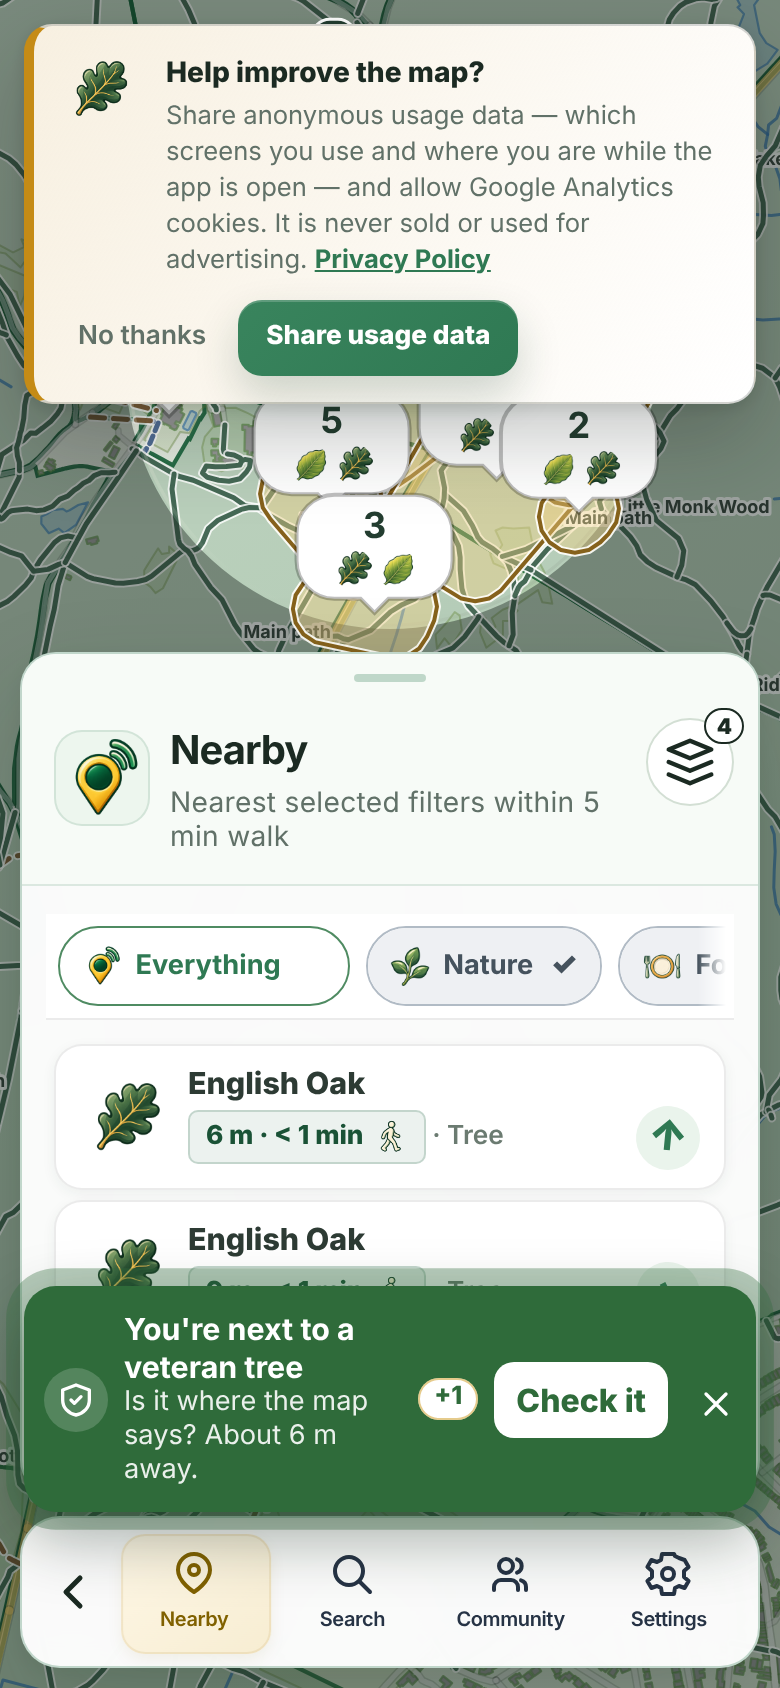
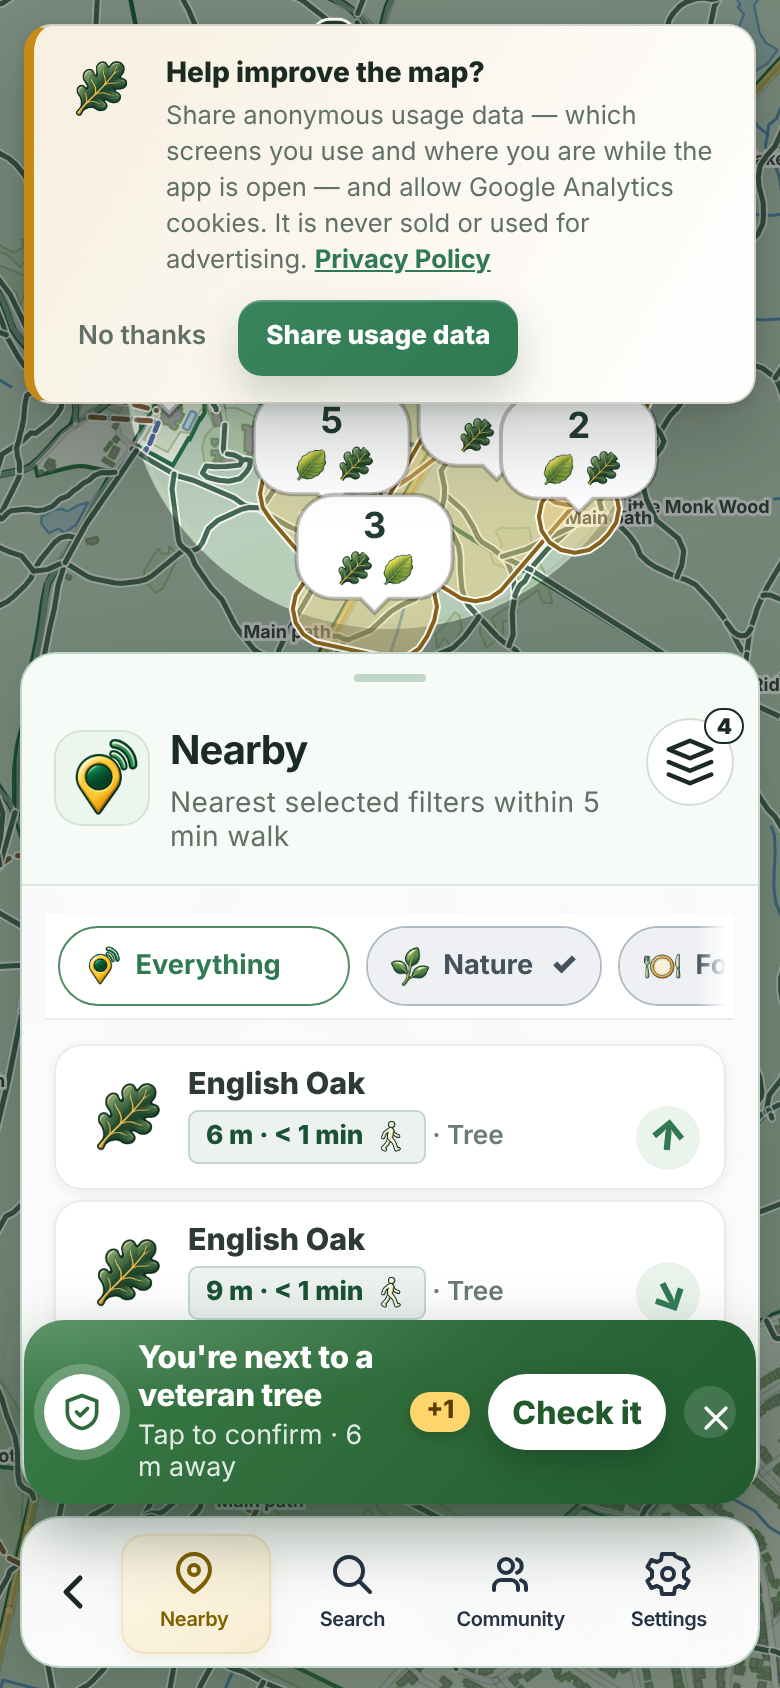
Make the tree nudge a more inviting card
Warm gradient band, glowing badge, pill call to action and a shorter
subtitle so the prompt reads as an invitation to check the tree.

Claude-Session: https://claude.ai/code/session_01AJovwzNat6yvRnbUhUsFTU

Changed region(s): [[0.0, 0.7393, 1.0, 0.9242], [0.8923, 0.8318, 0.9231, 0.8626]]

diff --git a/css/inspector.css b/css/inspector.css
@@ -2189,21 +2189,23 @@ dd {
 }
 
 /* Nudge: a dismissible prompt when you are next to an unchecked tree, on every screen, and a one-off pulse on the check card.
-   Solid green with white text so it reads at a glance over the map, the lists and the inspector sheet alike. */
-.community-nudge { position: fixed; z-index: 40; left: 12px; right: 12px; bottom: calc(var(--safe-bottom) + 88px); display: flex; align-items: center; gap: 12px; max-width: 460px; margin: 0 auto; padding: 14px 14px 14px 12px; border: 0; border-radius: 16px; background: #2f6b3a; color: #fff; box-shadow: 0 12px 32px rgba(20, 40, 25, .38), 0 0 0 3px rgba(255, 255, 255, .85); animation: community-nudge-in .3s ease-out, community-nudge-glow 2.4s ease-in-out 3; }
-.community-nudge-icon { display: inline-flex; width: 40px; height: 40px; padding: 8px; border-radius: 50%; background: rgba(255, 255, 255, .18); color: #fff; flex: none; }
+   A warm gradient band with a glowing badge and a bright call to action, so it reads as an invitation rather than a notice. */
+.community-nudge { position: fixed; z-index: 40; left: 12px; right: 12px; bottom: calc(var(--safe-bottom) + 92px); display: flex; align-items: center; gap: 12px; max-width: 460px; margin: 0 auto; padding: 12px 12px 12px 12px; border: 0; border-radius: 20px; background: linear-gradient(135deg, #3a7d47 0%, #225a2e 100%); color: #fff; box-shadow: 0 14px 34px rgba(16, 42, 22, .42), inset 0 1px 0 rgba(255, 255, 255, .22); animation: community-nudge-in .35s cubic-bezier(.2, .8, .2, 1), community-nudge-glow 2.6s ease-in-out 3; }
+.community-nudge::before { content: ""; position: absolute; inset: 0; border-radius: inherit; background: radial-gradient(120% 90% at 0% 0%, rgba(255, 255, 255, .18), transparent 55%); pointer-events: none; }
+.community-nudge-icon { position: relative; display: inline-flex; width: 46px; height: 46px; padding: 10px; border-radius: 50%; background: #fff; color: #2f6b3a; box-shadow: 0 0 0 5px rgba(255, 255, 255, .22); flex: none; }
 .community-nudge-icon svg { width: 100%; height: 100%; }
-.community-nudge-text { display: flex; flex: 1; flex-direction: column; min-width: 0; font-size: .95rem; line-height: 1.25; }
-.community-nudge-text strong { font-size: 1.02rem; }
-.community-nudge-text span { color: rgba(255, 255, 255, .9); font-size: .85rem; }
-.community-nudge > .community-points-chip { flex: none; margin: 0; background: #fff; color: #2f6b3a; font-weight: 800; }
-.community-nudge-go { flex: none; padding: 10px 14px; border: 0; border-radius: 10px; background: #fff; color: #2f6b3a; font: inherit; font-weight: 800; cursor: pointer; }
-.community-nudge-close { display: inline-flex; flex: none; width: 32px; height: 32px; padding: 6px; border: 0; border-radius: 50%; background: none; color: #fff; cursor: pointer; }
-.community-nudge-close:hover, .community-nudge-close:focus-visible { background: rgba(255, 255, 255, .16); }
-@media (max-width: 420px) { .community-nudge { gap: 8px; padding: 12px 8px 12px 10px; } .community-nudge-icon { width: 32px; height: 32px; padding: 6px; } .community-nudge-text { font-size: .9rem; } .community-nudge-text strong { font-size: .95rem; } .community-nudge-go { padding: 9px 11px; } .community-nudge-close { width: 28px; height: 28px; } }
+.community-nudge-text { position: relative; display: flex; flex: 1; flex-direction: column; gap: 2px; min-width: 0; font-size: .95rem; line-height: 1.2; }
+.community-nudge-text strong { font-size: 1.05rem; font-weight: 800; letter-spacing: -.01em; }
+.community-nudge-text span { color: rgba(255, 255, 255, .86); font-size: .84rem; }
+.community-nudge > .community-points-chip { position: relative; flex: none; margin: 0; background: #ffd66b; color: #5a3d00; font-weight: 800; box-shadow: 0 2px 6px rgba(0, 0, 0, .18); }
+.community-nudge-go { position: relative; flex: none; display: inline-flex; align-items: center; gap: 6px; padding: 11px 16px; border: 0; border-radius: 999px; background: #fff; color: #225a2e; font: inherit; font-weight: 800; box-shadow: 0 6px 16px rgba(0, 0, 0, .22); cursor: pointer; transition: transform .15s ease; }
+.community-nudge-go:hover, .community-nudge-go:focus-visible { transform: translateY(-1px); }
+.community-nudge-close { position: relative; display: inline-flex; flex: none; width: 30px; height: 30px; padding: 6px; border: 0; border-radius: 50%; background: rgba(255, 255, 255, .14); color: #fff; cursor: pointer; }
+.community-nudge-close:hover, .community-nudge-close:focus-visible { background: rgba(255, 255, 255, .28); }
+@media (max-width: 420px) { .community-nudge { gap: 9px; padding: 10px; } .community-nudge-icon { width: 38px; height: 38px; padding: 8px; } .community-nudge-text { font-size: .9rem; } .community-nudge-text strong { font-size: .98rem; } .community-nudge-go { padding: 9px 12px; } .community-nudge-close { width: 26px; height: 26px; } }
 .community-nudge-setting { display: flex; gap: 8px; align-items: center; margin: 12px 2px; color: #5b665b; font-size: .85rem; }
 .community-check.community-nudge-pulse { animation: community-pulse 1.3s ease-in-out 2; }
-@keyframes community-nudge-glow { 0%, 100% { box-shadow: 0 12px 32px rgba(20, 40, 25, .38), 0 0 0 3px rgba(255, 255, 255, .85); } 50% { box-shadow: 0 12px 32px rgba(20, 40, 25, .38), 0 0 0 9px rgba(47, 107, 58, .35); } }
+@keyframes community-nudge-glow { 0%, 100% { box-shadow: 0 14px 34px rgba(16, 42, 22, .42), 0 0 0 0 rgba(255, 255, 255, .5); } 50% { box-shadow: 0 14px 34px rgba(16, 42, 22, .42), 0 0 0 10px rgba(255, 255, 255, 0); } }
 @keyframes community-nudge-in { from { opacity: 0; transform: translateY(8px); } to { opacity: 1; transform: none; } }
 @keyframes community-pulse { 0%, 100% { box-shadow: 0 0 0 0 rgba(47, 107, 58, 0); } 50% { box-shadow: 0 0 0 6px rgba(47, 107, 58, .28); } }
 @media (prefers-reduced-motion: reduce) { .community-nudge { animation: none; } .community-check.community-nudge-pulse { animation: none; outline: 2px solid #2f6b3a; } }

diff --git a/js/community.js b/js/community.js
@@ -985,7 +985,7 @@ function communityNudgeShow(tree, metres) {
   el.className = "community-nudge";
   el.setAttribute("role", "status");
   el.innerHTML = `<span class="community-nudge-icon">${communityIcon("shield")}</span>
-    <div class="community-nudge-text"><strong>You're next to ${name}</strong><span>Is it where the map says? About ${Math.max(1, Math.round(metres))} m away.</span></div>
+    <div class="community-nudge-text"><strong>You're next to ${name}</strong><span>Tap to confirm · ${Math.max(1, Math.round(metres))} m away</span></div>
     ${communityPointsChipHtml(1)}
     <button type="button" class="community-nudge-go" data-community-nudge-go>Check it</button>
     <button type="button" class="community-nudge-close" data-community-nudge-close aria-label="Not now">${communityIcon("x")}</button>`;
